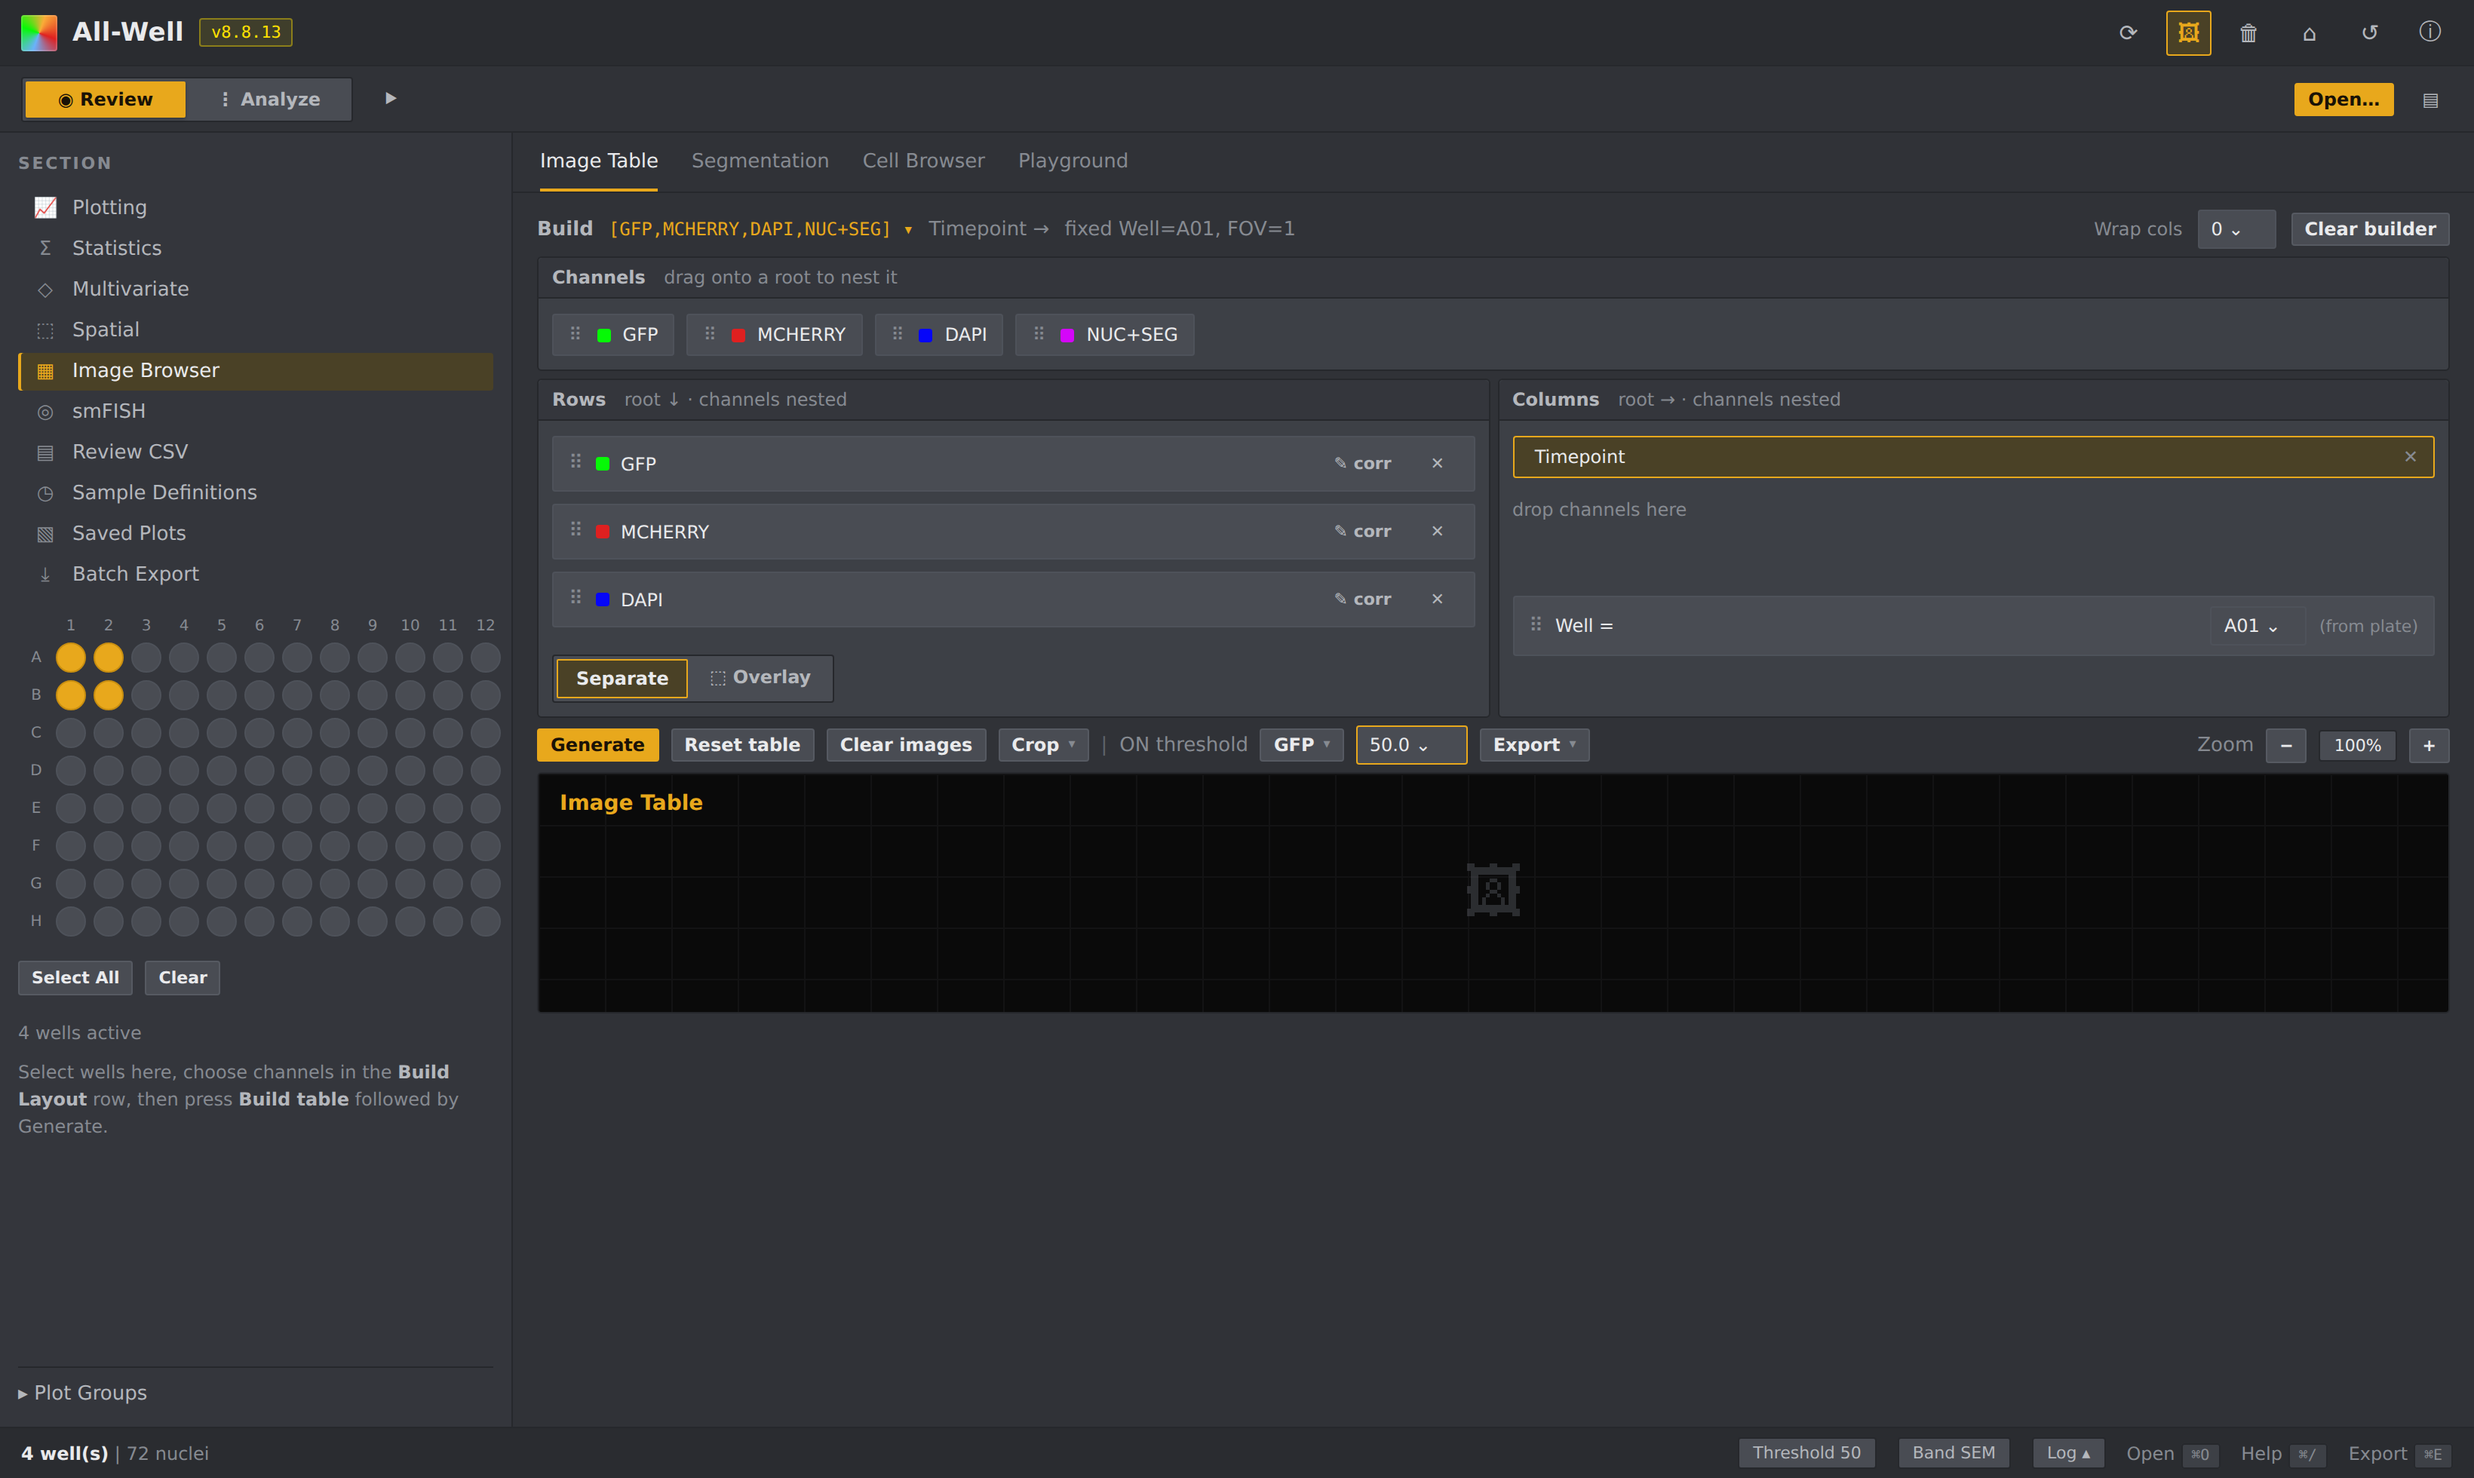
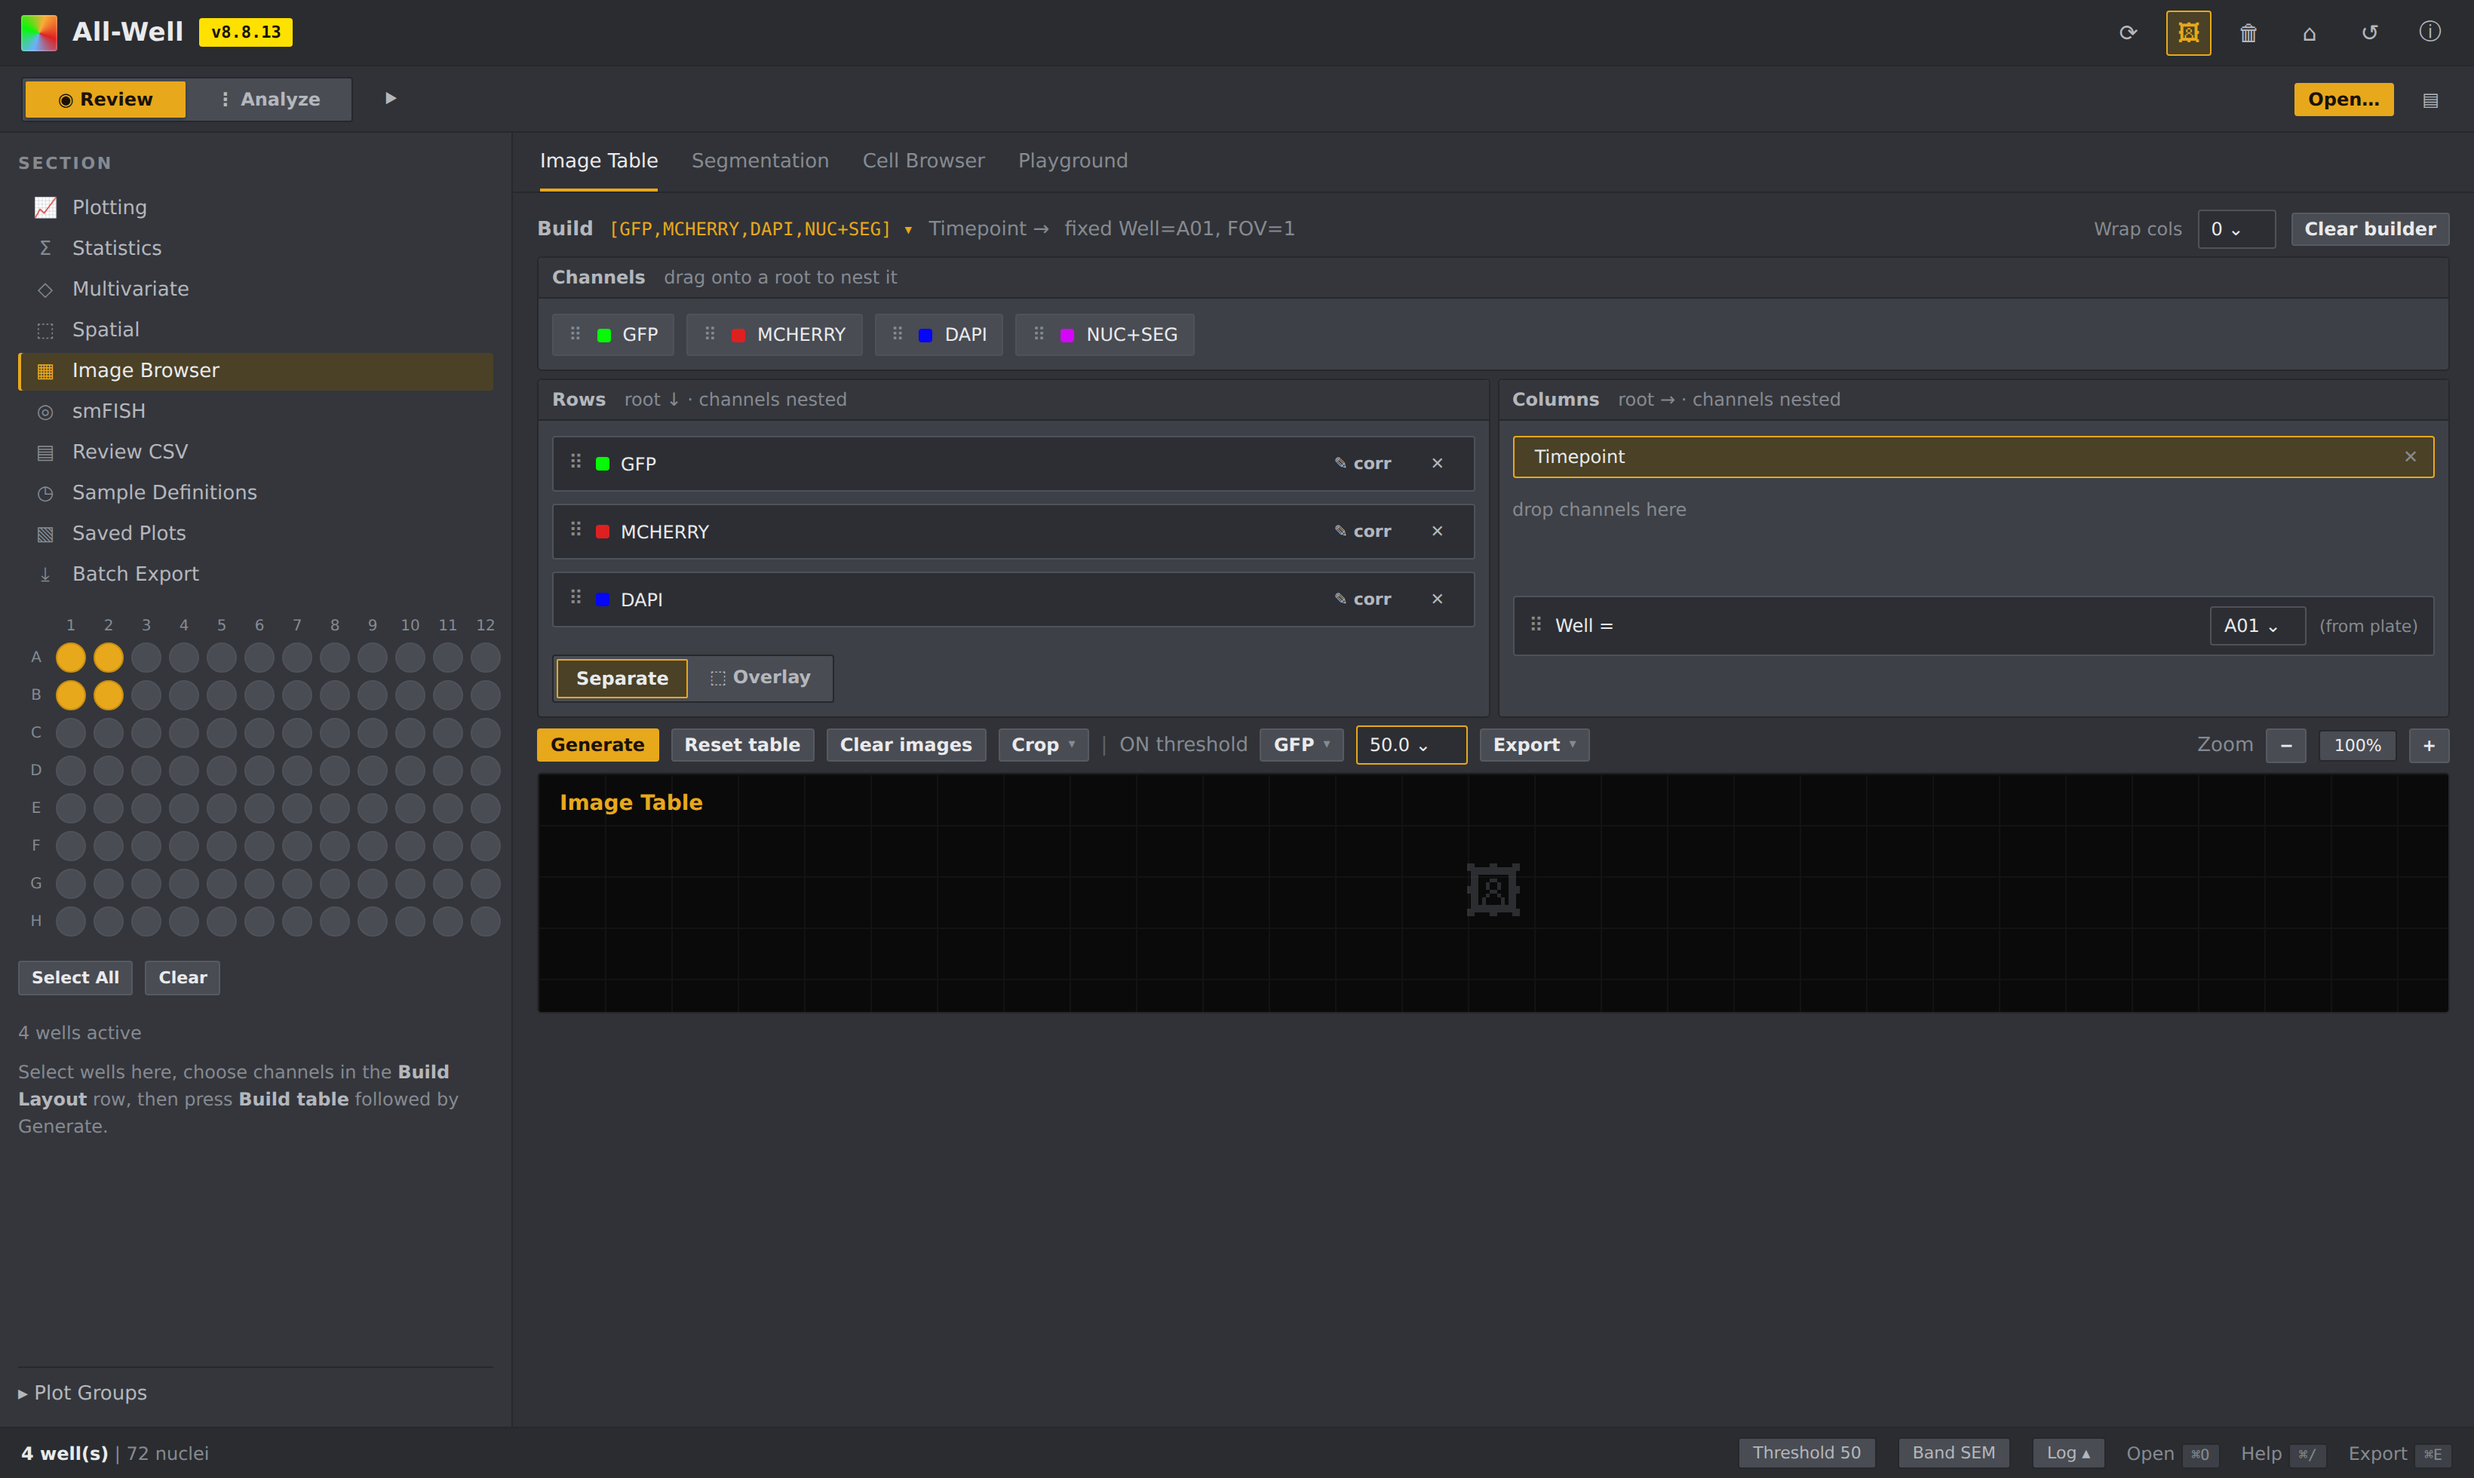
Add light NIS-Elements variant to preview (grounded in 3rd screenshot)
The third real capture (Spinning Disk) is the classic LIGHT-gray NIS-Elements
theme with white input fields, distinct from the darker FLIM/AX variant. Add a
nikon-elements-light preview flavor (silver-gray chrome, white fields, gold
active accent, black canvas) alongside the dark one, plus a dark-vs-light
comparison render, so the theme direction can be chosen from pixels.

Claude-Session: https://claude.ai/code/session_01TTAnmHGEFmq5pch3irKB9Z

diff --git a/design/nikon_elements_theme_mockup.html b/design/nikon_elements_theme_mockup.html
@@ -22,7 +22,7 @@
   --plot-bg:#131A24; --plot-grid:#1F2733; --plot-spine:#3A4658;
   --radius-sm:5px; --radius-md:8px; --radius-lg:12px;
   --btn-border:var(--border-subtle); --btn-border-hover:var(--border);
-  --panel-hdr-bg:transparent; --panel-hdr-border:transparent;
+  --panel-hdr-bg:transparent; --panel-hdr-border:transparent; --input-bg:var(--panel-elevated);
   --btn-pad-v:6px; --btn-pad-h:10px; --panel-pad:14px; --gap:8px; --nav-pad-v:8px; --content-pad:16px;
   --btn-weight:500; --tab-underline:2px;
 }
@@ -41,7 +41,25 @@
   --plot-bg:#0A0A0A; --plot-grid:#1D1D1F; --plot-spine:#55585E;
   --radius-sm:2px; --radius-md:3px; --radius-lg:4px;
   --btn-border:#565A62; --btn-border-hover:#727782;
-  --panel-hdr-bg:#34363C; --panel-hdr-border:#26282C;
+  --panel-hdr-bg:#34363C; --panel-hdr-border:#26282C; --input-bg:#2C2E33;
+  --btn-pad-v:3px; --btn-pad-h:8px; --panel-pad:9px; --gap:5px; --nav-pad-v:5px; --content-pad:11px;
+  --btn-weight:600; --tab-underline:2px;
+}
+/* Nikon NIS-Elements — classic LIGHT gray variant, grounded in IMG_0217:
+   medium silver-gray chrome, WHITE input fields with dark text, gold/amber
+   active accent, flat hairline buttons, black image canvas, dark text. */
+:root[data-theme="nikon-elements-light"] {
+  --titlebar:#CBCBC6; --surface:#BEBEB9; --rail:#C6C6C1; --panel:#CFCFCA;
+  --panel-elevated:#DCDCD7; --hover:#E9E9E4; --active:#B4B4AF;
+  --border-subtle:#B0B0AB; --border:#9A9A95; --border-strong:#7E7E79;
+  --text-primary:#1B1B1A; --text-secondary:#3E3E3C; --text-muted:#6E6E6A; --text-faint:#8C8C88;
+  --accent:#E19A0F; --accent-hover:#F2AE1C; --accent-pressed:#B87C08; --accent-dim:#EEDCA2; --accent-fg:#1A1206;
+  --brand:#FFE100; --brand-fg:#1A1206;
+  --success:#2E8B22; --warn:#C8791A; --danger:#C0342C;
+  --plot-bg:#0A0A0A; --plot-grid:#1D1D1F; --plot-spine:#55585E;
+  --radius-sm:2px; --radius-md:3px; --radius-lg:4px;
+  --btn-border:#9A9A95; --btn-border-hover:#7E7E79;
+  --panel-hdr-bg:#C0C0BB; --panel-hdr-border:#A6A6A1; --input-bg:#FFFFFF;
   --btn-pad-v:3px; --btn-pad-h:8px; --panel-pad:9px; --gap:5px; --nav-pad-v:5px; --content-pad:11px;
   --btn-weight:600; --tab-underline:2px;
 }
@@ -68,10 +86,9 @@ body {
 }
 .app-title { font-size:17px; font-weight:600; letter-spacing:.2px; }
 .version-pill {
-  font-family:"JetBrains Mono","Consolas",monospace; font-size:11px;
-  color:var(--brand); padding:2px 7px; border-radius:var(--radius-sm);
-  border:1px solid color-mix(in srgb, var(--brand) 40%, transparent);
-  background:color-mix(in srgb, var(--brand) 10%, transparent);
+  font-family:"JetBrains Mono","Consolas",monospace; font-size:11px; font-weight:600;
+  color:var(--brand-fg); padding:2px 7px; border-radius:var(--radius-sm); border:1px solid transparent;
+  background:var(--brand);
 }
 .spacer { flex:1 1 auto; }
 .icon-btn {
@@ -165,11 +182,11 @@ body {
 .chips { display:flex; gap:8px; flex-wrap:wrap; }
 .chip.sel { background:var(--accent-dim); border-color:var(--accent); }
 
-.field { display:flex; align-items:center; gap:8px; background:var(--panel-elevated); border:1px solid var(--border);
+.field { display:flex; align-items:center; gap:8px; background:var(--input-bg); border:1px solid var(--border);
   border-radius:var(--radius-sm); padding:6px 10px; margin-bottom:8px; }
 .field .grip { color:var(--text-muted); }
 .field .name { flex:1; font-size:12px; font-weight:500; }
-.input { background:var(--panel-elevated); border:1px solid var(--border); border-radius:var(--radius-sm);
+.input { background:var(--input-bg); border:1px solid var(--border); border-radius:var(--radius-sm);
   padding:5px 8px; font-size:12px; color:var(--text-primary); min-width:64px; }
 .input.focus { border-color:var(--accent); }
 .toggles { display:inline-flex; background:var(--panel-elevated); border:1px solid var(--border-subtle);
